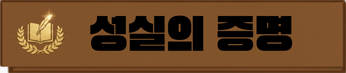
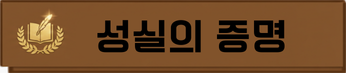
taek: chat 오류 수정, 나머지 도전과제 구현 완료, 칭호 이미지 수정

Changed region(s): [[0.2601, 0.1918, 0.8671, 0.7397]]

diff --git a/doyouknowju/src/main/java/com/project/dykj/domain/game/service/GameService.java b/doyouknowju/src/main/java/com/project/dykj/domain/game/service/GameService.java
@@ -31,7 +31,9 @@ public class GameService {
 	
 	private static final int ACHIEV_FIRST_ATTENDANCE = 1;
 	private static final int ACHIEV_FIRST_QUIZ = 2;
+	private static final int ACHIEV_FIRST_TRADE = 3;
 	private static final int ACHIEV_FIRST_FAVORITE = 4;
+	private static final int ACHIEV_PROFIT_1 = 5;
 	// 누적 출석 도전과제 ID
 	private static final int ACHIEV_ATTENDANCE_7 = 9;
 	private static final int ACHIEV_ATTENDANCE_30 = 10;
@@ -48,6 +50,11 @@ public class GameService {
     private static final int ACHIEV_TRADE_100 = 19;
     private static final int ACHIEV_TRADE_500 = 20;
     private static final int ACHIEV_TRADE_1000 = 21;
+    // 관심 등록 도전과제 ID
+    private static final int ACHIEV_FAVORITE_5 = 22;
+    private static final int ACHIEV_FAVORITE_20 = 23;
+    private static final int ACHIEV_FAVORITE_50 = 24;
+    private static final int ACHIEV_FAVORITE_100 = 25;
     // 퀴즈 참여 도전과제 ID
     private static final int ACHIEV_QUIZ_JOIN_10 = 26;
     private static final int ACHIEV_QUIZ_JOIN_50 = 27;
@@ -58,6 +65,18 @@ public class GameService {
     private static final int ACHIEV_BOARD_20 = 31;
     private static final int ACHIEV_BOARD_50 = 32;
     private static final int ACHIEV_BOARD_100 = 33;
+    // 보유 포인트 도전과제 ID
+    private static final int ACHIEV_WEALTH_20M = 34;
+    private static final int ACHIEV_WEALTH_50M = 35;
+    private static final int ACHIEV_WEALTH_100M = 36;
+    private static final int ACHIEV_WEALTH_1B = 37;
+    // 거래 금액 도전과제 ID
+    private static final int ACHIEV_TX_10M = 38;
+    private static final int ACHIEV_TX_50M = 39;
+    private static final int ACHIEV_TX_100M = 40;
+    private static final int ACHIEV_TX_1B = 41;
+    
+    
 	
 	@Transactional
 	public ExpResultDTO gainExp(String userId, int amount, String source) {
@@ -84,11 +103,11 @@ public class GameService {
 		
 		// 레벨 정책 확인
 		for (LevelPolicy policy : policies) {
-			//사용자 레벨보다 높은 레벨 정책만 고려
+			// 사용자 레벨보다 높은 레벨 정책만 고려
 			if (policy.getLevelId() > newLevel) {
 				if (totalExp >= policy.getRequiredExp()) {
 					newLevel = policy.getLevelId();
-				}else {
+				} else {
 					break;
 				}
 			}
@@ -151,7 +170,7 @@ public class GameService {
 		if (attendanceCount >= 1)
 			recordAchievement(userId, ACHIEV_FIRST_ATTENDANCE);
 		
-		//보상 경험치
+		// 보상 경험치
 		int rewardExp = 50;
 		
 		ExpResultDTO expResult = gainExp(userId, rewardExp, "ATTENDANCE");
@@ -217,7 +236,7 @@ public class GameService {
 			result.setCurrentLevel(expResult.getCurrentLevel());
 		}
 		
-		//퀴즈 참여 횟수 체크
+		// 퀴즈 참여 횟수 체크
 		checkQuizParticipationAchievements(userId);
 		
 		return result;
@@ -302,6 +321,18 @@ public class GameService {
 		if(favoriteCount >= 1) {
 			recordAchievement(userId, ACHIEV_FIRST_FAVORITE);
 		}
+		if(favoriteCount >= 5) {
+			recordAchievement(userId, ACHIEV_FAVORITE_5);
+		}
+		if(favoriteCount >= 20) {
+			recordAchievement(userId, ACHIEV_FAVORITE_20);
+		}
+		if(favoriteCount >= 50) {
+			recordAchievement(userId, ACHIEV_FAVORITE_50);
+		}
+		if(favoriteCount >= 100) {
+			recordAchievement(userId, ACHIEV_FAVORITE_100);
+		}
 	}
 
 	public void equipTitle(String userId, int titleId) {
@@ -314,5 +345,56 @@ public class GameService {
 			return List.of();
 		}
 		return gameMapper.selectEquippedTitlesByUsers(userIds);
+	}
+	
+	public void checkProfitAchievement(String userId, long totalPrice, long totalCount, long sellPrice) {
+		if(totalCount == 0 || totalPrice == 0) {
+			return;
+		}
+		long avgPrice = totalPrice / totalCount;
+		
+		if(avgPrice == 0) {
+			return;
+		}
+		
+		double profitRate = (double)(sellPrice - avgPrice) / avgPrice * 100;
+		
+		if(profitRate >= 1.0) {
+			recordAchievement(userId, ACHIEV_PROFIT_1);
+		}
+	}
+	
+	public void checkWealthAchievements (String userId, long currentPoints) {
+		if (currentPoints >= 20000000L) {
+			recordAchievement(userId, ACHIEV_WEALTH_20M);
+		}
+		if (currentPoints >= 50000000L) {
+			recordAchievement(userId, ACHIEV_WEALTH_50M);
+		}
+		if (currentPoints >= 100000000L) {
+			recordAchievement(userId, ACHIEV_WEALTH_100M);
+		}
+		if (currentPoints >= 1000000000L) {
+			recordAchievement(userId, ACHIEV_WEALTH_1B);
+		}
+	}
+	
+	public void checkTransactionAmountAchievements(String userId, long tradeAmount) {
+		if (tradeAmount >= 10000000L) {
+			recordAchievement(userId, ACHIEV_TX_10M);
+		}
+		if (tradeAmount >= 50000000L) {
+			recordAchievement(userId, ACHIEV_TX_50M);
+		}
+		if (tradeAmount >= 100000000L) {
+			recordAchievement(userId, ACHIEV_TX_100M);
+		}
+		if (tradeAmount >= 1000000000L) {
+			recordAchievement(userId, ACHIEV_TX_1B);
+		}
+	}
+	
+	public void checkFirstTradeAchievement(String userId) {
+		recordAchievement(userId, ACHIEV_FIRST_TRADE);
 	}
 }

diff --git a/doyouknowju/src/main/java/com/project/dykj/domain/stock/service/TradeService.java b/doyouknowju/src/main/java/com/project/dykj/domain/stock/service/TradeService.java
@@ -3,7 +3,6 @@ package com.project.dykj.domain.stock.service;
 import java.util.List;
 import java.util.Optional;
 
-import org.springframework.http.ResponseEntity;
 import org.springframework.stereotype.Service;
 import org.springframework.transaction.annotation.Transactional;
 
@@ -92,9 +91,15 @@ public class TradeService {
         }
         
         // [taek] : 도전과제 달성 체크
-        gameService.recordAchievement(tradeReq.getUserId(), 3);
-        gameService.checkTradeAchievements(tradeReq.getUserId());
-
+        try {
+            gameService.checkFirstTradeAchievement(tradeReq.getUserId());
+            gameService.checkTradeAchievements(tradeReq.getUserId());
+            gameService.checkTransactionAmountAchievements(tradeReq.getUserId(),
+                    tradeReq.getStockPrice() * tradeReq.getTradeCount());
+        } catch (Exception e) {
+            e.printStackTrace();
+        }
+        
         // 4. 결과 리턴
         return TradeRes.builder()
                     .afterBalance(tradeReq.getAfterBalance())
@@ -120,6 +125,17 @@ public class TradeService {
         // 만약 주식 보유 개수가 판매하고자 하는 개수보다 적다면 NOT_ENOUGH_STOCK 에러 발생
         if (holding.isEmpty() || tradeReq.getTradeCount() > holding.get().getTotalCount()) {
             throw new BusinessException(ErrorCode.NOT_ENOUGH_HOLDING);
+        }
+        
+        // [taek] 수익률 1% 이상 매도 도전과제 확인
+        try {
+            gameService.checkProfitAchievement(
+                    tradeReq.getUserId(),
+                    holding.get().getTotalPrice(),
+                    holding.get().getTotalCount(),
+                    tradeReq.getStockPrice());
+        } catch (Exception e) {
+            e.printStackTrace();
         }
 
         // 거래 내역 추가
@@ -147,7 +163,6 @@ public class TradeService {
             throw new BusinessException(ErrorCode.FAIL_TO_TRADE);
         }
 
-
         // 잔액 업데이트
         int result3 = tradeMapper.updateBalance(tradeReq);
 
@@ -155,9 +170,16 @@ public class TradeService {
             throw new BusinessException(ErrorCode.FAIL_TO_TRADE);
         }
         
-        //[taek] : 누적 매매 도전과제 달성 확인
-        gameService.checkTradeAchievements(tradeReq.getUserId());
-
+        // [taek] : 누적 매매, 보유 포인트, 거래 금액 도전과제 달성 확인
+        try {
+            gameService.checkTradeAchievements(tradeReq.getUserId());
+            gameService.checkWealthAchievements(tradeReq.getUserId(), tradeReq.getAfterBalance());
+            gameService.checkTransactionAmountAchievements(tradeReq.getUserId(),
+                    tradeReq.getStockPrice() * tradeReq.getTradeCount());
+        } catch (Exception e) {
+            e.printStackTrace();
+        }
+        
         // 결과 리턴
         return TradeRes.builder()
                     .afterBalance(tradeReq.getAfterBalance())

diff --git a/doyouknowju/src/main/java/com/project/dykj/domain/stock/service/FavoriteStockService.java b/doyouknowju/src/main/java/com/project/dykj/domain/stock/service/FavoriteStockService.java
@@ -6,6 +6,7 @@ import java.util.Map;
 
 import org.springframework.stereotype.Service;
 
+import com.project.dykj.domain.game.service.GameService;
 import com.project.dykj.domain.stock.dto.req.UserIdAndStockIdReq;
 import com.project.dykj.domain.stock.dto.res.GetFavoriteStocksRes;
 import com.project.dykj.domain.stock.mapper.FavoriteStockMapper;
@@ -19,9 +20,19 @@ public class FavoriteStockService {
 
     private final StockService stockService;
     private final FavoriteStockMapper favoriteStockMapper;
+    private final GameService gameService;
 
     public int addFavorite(UserIdAndStockIdReq req) {
-        return favoriteStockMapper.addFavorite(req);
+    	//[taek] 관심 등록 도전과제 확인
+    	int result = favoriteStockMapper.addFavorite(req);
+    	if(result > 0) {
+    		try {
+    			gameService.checkFavoriteStockAchievements(req.getUserId());
+    		}catch(Exception e) {
+    			e.printStackTrace();
+    		}
+    	}
+    	return result;
     }
 
     public int deleteFavorite(UserIdAndStockIdReq req) {

diff --git a/doyouknowju/src/main/java/com/project/dykj/domain/chat/dto/ChatMessageVO.java b/doyouknowju/src/main/java/com/project/dykj/domain/chat/dto/ChatMessageVO.java
@@ -13,4 +13,5 @@ public class ChatMessageVO {
 
     private String userTitle; // 칭호 이름
     private String userTitleColor; // 칭호 색상
+    private String userTitleImgUrl; //[taek] ChatHanler 오류 수정
 }
